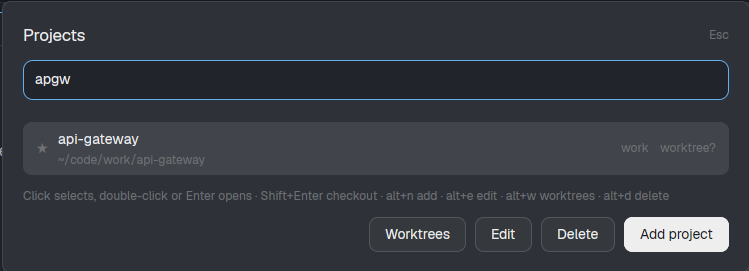
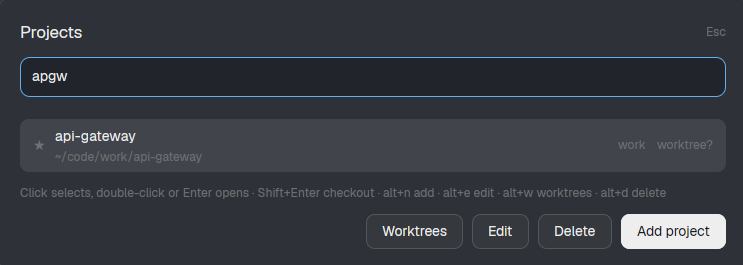
Add a tour GIF and a result screenshot, and retake the screenshots with a neutral demo user
The tour GIF at the top of the README steps through the list, search, branch name and starting views to the finished space. The result screenshot shows the new worktree space with the agent running. All screenshots now come from a demo repo, so branch names read cgill27/... Popup edges are trimmed.

diff --git a/README.md b/README.md
@@ -2,7 +2,7 @@
 
 A [Herdr](https://herdr.dev) app mod: a project picker where each project is a local git checkout with its own settings. Press `ctrl-alt-p` (`cmd-p` on macOS), fuzzy-search, Enter. Per project you choose whether to open the checkout or a fresh worktree (always, ask for a branch name, or never), the branch-name template, whether to fetch first, which agent to start with which arguments and first prompt, setup commands and extra tabs.
 
-![Project presets](preview.png)
+![A tour of project-presets: pick a project, name the branch, and get a new worktree with the agent running](docs/tour.gif)
 
 ## Screens
 
@@ -31,6 +31,10 @@ A project in `ask` mode asks for a name and shows the branch it will create befo
 | Branch name | Starting |
 |---|---|
 | ![Branch name](docs/screenshots/05-branch-name.png) | ![Starting](docs/screenshots/06-starting.png) |
+
+When it finishes you land in a new space on the new worktree, with the agent already running and your prompt sent. The space is named after the project and branch, and the sidebar nests it under the repository.
+
+![The result: a new space on cgill27/2026-10-30-add-search-page with Claude Code running and the first prompt answered](docs/screenshots/15-result.png)
 
 ### Adding and editing a project
 
